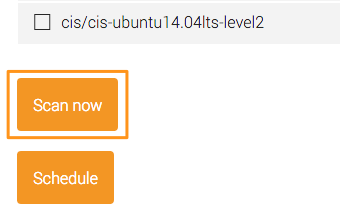
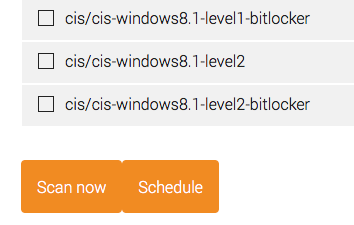
Draft Scan for compliance for Windows

Changed region(s): [[0.0, 0.2202, 0.896, 0.6606], [0.0289, 0.6881, 0.6358, 0.9633], [0.0867, 0.0275, 0.896, 0.1376]]

diff --git a/source/tutorials/compliance-assess/windows/bring-your-own-system/scan-your-node-for-compliance/conclusion/_index.md b/source/tutorials/compliance-assess/windows/bring-your-own-system/scan-your-node-for-compliance/conclusion/_index.md
@@ -1,0 +1,21 @@
+In this tutorial, you set up a Chef compliance scanner and scanned a Windows Server 2012 R2 server against the predefined CIS Security Benchmarks.
+
+At the [beginning of the tutorial](/tutorials/compliance-assess/windows/bring-your-own-system/), we proposed 5 stages for keeping your infrastructure in compliance. Let's review them.
+
+* **Analyze**
+* **Specify**
+* **Test**
+* **Remediate**
+* **Certify**
+
+You've already covered 3 of these 5 stages.
+
+In the Analyze stage, you define your compliance requirements. In this tutorial, this means adhering to the CIS Security Benchmarks.
+
+In the Specify stage, you translate your requirements into a formal language. The Chef compliance scanner does this for you by providing tests for the CIS Security Benchmarks. In the next tutorial, you'll learn about the testing framework the Chef compliance scanner uses, called [InSpec](http://inspec.io).
+
+In the Test stage, you run the automated tests to see how closely your servers adhere to compliance. In this tutorial, you ran a compliance scan and noted which tests passed and which tests failed.
+
+Knowing the state of your servers is a great first step towards meeting your compliance goals. In the next tutorial, [Remediate compliance failures](/tutorials/compliance-remediate/windows/), you'll build upon this tutorial by implementing the Remediate stage, using the **Password Settings: Password Complexity** rule you saw in this tutorial as an example. You'll start by learning how to replicate and remediate the failure on a local virtual machine. Then you'll learn how to apply the remedation to your Windows Server 2012 R2 node and verify that the rule passes.
+
+You can also learn more about building a high velocity, highly compliant organization at [complianceatvelocity.com](http://complianceatvelocity.com/).

diff --git a/source/tutorials/compliance-assess/windows/bring-your-own-system/get-a-node-to-scan/_troubleshooting.md b/source/tutorials/compliance-assess/windows/bring-your-own-system/get-a-node-to-scan/_troubleshooting.md
@@ -1,0 +1,26 @@
+If the Chef compliance scanner fails to create a connection, you'll see something like this:
+
+![](compliance/connectivity_report_fail_windows2012.png)
+
+If you see this error, verify that:
+
+* you specified the correct username and password to connect to your node.
+* your firewall enables inbound access on port 5985.
+* you can [manually connect over WinRM](#step2).
+
+If the connectivity test still fails, log in to your Chef compliance scanner and run this command. The output may help you find the source of the failure.
+
+```bash
+[root@chef-compliance ~]$ sudo chef-compliance-ctl tail core
+2017-02-08_15:16:32.37605 15:16:32.375 ERR => DB error: sql: no rows in result set
+2017-02-08_15:16:32.37641 15:16:32.376 DEB => ID of user john-smith changed: 08f330c8-75b9-4267-6724-d9c29c5e6d18 -> 7b97dcfb-04db-401d-9051-960f9059ace4 (resetting)
+2017-02-08_15:16:32.37649 15:16:32.376 DEB => Authenticated user: &{PasswordHash: Login:john-smith Name:john-smith IsOrg:false Source:{String: Valid:false} UUID:{ID:08f330c8-75b9-4267-6724-d9c29c5e6d18}}
+2017-02-08_15:16:32.37677 15:16:32.376 ERR => DB error: sql: no rows in result set
+2017-02-08_15:16:32.37723 15:16:32.377 ERR => DB error: sql: no rows in result set
+2017-02-08_15:16:32.37904 15:16:32.379 DEB => Running `echo '{"backend":"winrm","host":"192.168.145.131","user":"Administrator","password":"REDACTED","format":"json","profiles_path":"/var/opt/chef-compliance/core/runtime/compliance-profiles"}' | inspec detect --json-config=-`
+[...]
+```
+
+Press Control+C to exit the `chef-compliance-ctl tail core` command.
+
+You can also [reach out to us](https://discourse.chef.io) on Discourse.

diff --git a/source/tutorials/compliance-assess/windows/bring-your-own-system/scan-your-node-for-compliance/exercises/_index.md b/source/tutorials/compliance-assess/windows/bring-your-own-system/scan-your-node-for-compliance/exercises/_index.md
@@ -1,0 +1,11 @@
+## Exercises
+
+These optional exercises are open-ended to help you think about how you might apply the Chef compliance scanner to your organization.
+
+<span style="font-size:16px;">1. Set up a recurring scan on your node. What might be the appropriate interval for the servers in your network?</span>
+
+<span style="font-size:16px;">2. Add a second node. Scan both nodes on demand or schedule the scan for a later time.</span>
+
+<span style="font-size:16px;">3. How might you remediate the failure to the **Password Settings: Password Complexity** rule you saw in this tutorial? How might you ensure that the remediation <i>stays</i> good?</span>
+
+<span style="font-size:16px;">4. Review the built-in compliance profiles. Which profiles map to your existing compliance requirements? What other requirements exist that you might want to add as a custom profile?</span>

diff --git a/source/tutorials/compliance-assess/windows/bring-your-own-system/get-a-node-to-scan/next/_index.md b/source/tutorials/compliance-assess/windows/bring-your-own-system/get-a-node-to-scan/next/_index.md
@@ -1,0 +1,1 @@
+Next, you'll scan your node against the built-in CIS Benchmarks &ndash; a set of common configuration guidelines used by government, business, industry, and academia.
